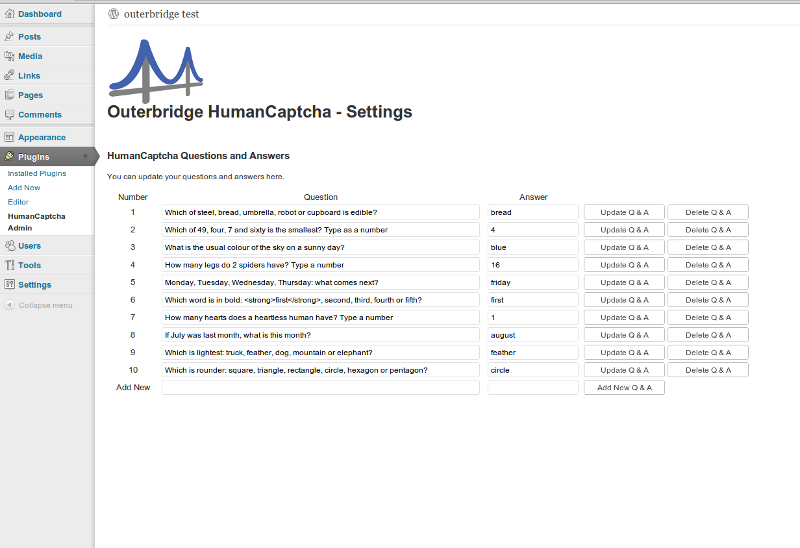
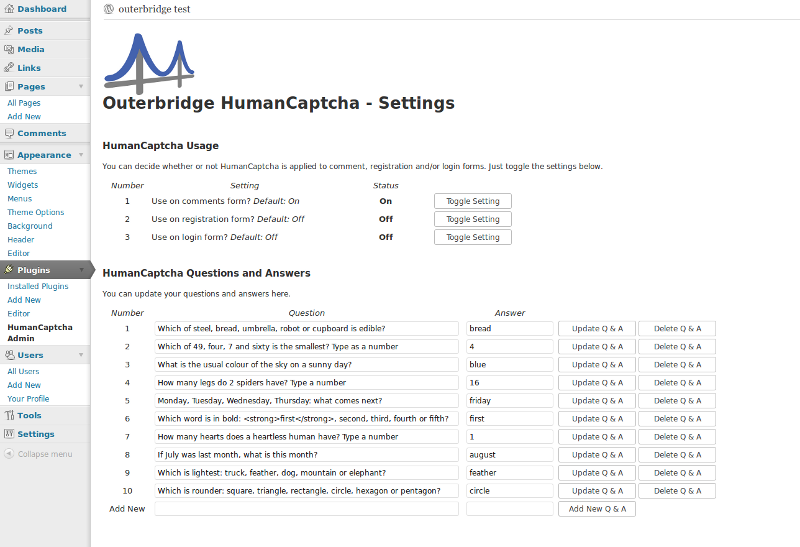
HumanCaptcha now added to registration and login forms as well as comments form.  Toggles added to admin menu to allow users to decide where HumanCaptcha is applied.
git-svn-id: https://plugins.svn.wordpress.org/humancaptcha/trunk@445724 b8457f37-d9ea-0310-8a92-e5e31aec5664

Changed region(s): [[0.0, 0.0, 1.0, 1.0], [0.6875, 0.3729, 0.9375, 0.9634], [0.5625, 0.808, 0.625, 0.9013]]

diff --git a/outerbridge-humancaptcha.php b/outerbridge-humancaptcha.php
@@ -4,7 +4,7 @@ Plugin Name: Outerbridge HumanCaptcha
 Plugin URI: http://outerbridge.co.uk/humancaptcha/ 
 Description: HumanCaptcha is a plugin written by Outerbridge which uses questions that require human logic to answer them and which machines cannot easily answer.
 Author: Mike Jones a.k.a. Outerbridge Mike
-Version: 0.2
+Version: 1.0
 Author URI: http://outerbridge.co.uk/author/mike/
 Tags: captcha, text-based, human, logic, questions, answers
 License: GPL v2
@@ -37,7 +37,7 @@ new obr_humancaptcha;
 class obr_humancaptcha{
 	
 	// version
-	public $obr_humancaptcha_version = '0.2';
+	public $obr_humancaptcha_version = '1.0';
 	
 	// constructor
 	function obr_humancaptcha() {
@@ -46,8 +46,15 @@ class obr_humancaptcha{
 	
 	function __construct(){
 		register_activation_hook(__FILE__, array(&$this, 'obr_install'));
-		add_filter('preprocess_comment', array(&$this, 'obr_validate_answer'));
-		add_filter('comment_form_default_fields', array(&$this, 'obr_build_form'));
+		add_filter('comment_form_default_fields', array(&$this, 'obr_comment_build_form'));
+		add_filter('preprocess_comment', array(&$this, 'obr_comment_validate_answer'), 10, 2);
+		
+		add_action('register_form', array(&$this, 'obr_register_build_form'));
+		add_filter('register_post', array(&$this, 'obr_register_validate_answer'), 10, 2);
+
+		add_action('login_form', array(&$this, 'obr_login_build_form'));
+		add_filter('wp_authenticate', array(&$this, 'obr_login_validate_answer'), 10, 2);
+
 		add_action('wp_head', array(&$this, 'obr_header'));
 		add_action('admin_menu', array(&$this, 'obr_admin_menu'));
 		add_action('init', array(&$this, 'obr_init'));
@@ -67,6 +74,20 @@ class obr_humancaptcha{
 			require_once(ABSPATH . 'wp-admin/includes/upgrade.php');
 			dbDelta($mysql);
 			$new_rows = $this->obr_insert_default_data();
+		}
+
+		$obr_admin_table_name = $this->obr_admin_table_name();
+		if($wpdb->get_var("SHOW TABLES LIKE '$obr_admin_table_name';") != $obr_admin_table_name){
+			$mysql = "CREATE TABLE $obr_admin_table_name (
+				fld_ref int(11) NOT NULL AUTO_INCREMENT,
+				fld_setting int(11) NOT NULL,
+				fld_value boolean NOT NULL DEFAULT 0,
+				UNIQUE KEY fld_setting (fld_setting),
+				UNIQUE KEY fld_ref (fld_ref)
+			);";
+			require_once(ABSPATH . 'wp-admin/includes/upgrade.php');
+			dbDelta($mysql);
+			$new_rows = $this->obr_insert_default_admin_data();
 		}
 
 		// now add in a version number
@@ -102,13 +123,39 @@ class obr_humancaptcha{
 		}
 	}
 
+	function obr_insert_default_admin_data(){
+		global $wpdb;
+		$obr_admin_table_name = $this->obr_admin_table_name();
+		$default_admin_data = array(
+			// 1 is for comments - default true
+			array(1, 1),
+			// 2 is for registration - default false
+			array(2, 0),
+			// 3 is for login - default false
+			array(3, 0)
+		);
+		foreach ($default_admin_data as $row){
+			$new_row = $wpdb->insert($obr_admin_table_name, array('fld_setting' => $row[0], 'fld_value' => $row[1]));
+		}
+	}
+
 	function obr_table_name(){
 		global $wpdb;
 		$obr_table_name = $wpdb->prefix."obr_humancaptcha_qanda";
 		return $obr_table_name;
 	}	
 	
-	function obr_build_form($fields){
+	function obr_admin_table_name(){
+		global $wpdb;
+		$obr_admin_table_name = $wpdb->prefix."obr_humancaptcha_admin";
+		return $obr_admin_table_name;
+	}	
+	
+	function obr_comment_build_form($fields){
+		global $comments_on;
+		if (!$comments_on){
+			return $fields;
+		}
 		global $user_ID;
 		if (!$user_ID){
 			$selected = $this->obr_select_question();
@@ -119,6 +166,35 @@ class obr_humancaptcha{
 			$fields['obr_hlc'] = '<p class="comment-form-email"><label for="obr_hlc">'.__(stripslashes($question)).'</label> <span class="required">*</span><input id="answer" name="answer" size="30" type="text" aria-required=\'true\' /></p>';
 			return $fields;
 		}
+	}
+	
+	function obr_register_build_form($fields){
+		global $register_on;
+		if (!$register_on){
+			return $fields;
+		}
+		$fields = $this->obr_build_form($fields);
+		return $fields;
+	}
+
+	function obr_login_build_form($fields){
+		global $login_on;
+		if (!$login_on){
+			return $fields;
+		}
+		$fields = $this->obr_build_form($fields);
+		return $fields;
+		
+	}
+
+	function obr_build_form($fields){
+		$selected = $this->obr_select_question();
+		$question = $selected['question'];
+		$answer = $selected['answer'];
+		$_SESSION['obr_answer'] = md5(strtolower(trim(htmlentities($answer))));
+		$fields['obr_hlc'] = '<p><label for="obr_hlc">'.__(stripslashes($question)).'<br /><input type="text" name="answer" id="answer" class="input" value="" size="25" tabindex="20" /></label></p>';
+		echo $fields['obr_hlc'];
+		return $fields;
 	}
 	
 	function obr_header(){
@@ -134,21 +210,41 @@ class obr_humancaptcha{
 		return $selected;
 	}
 
-	function obr_validate_answer($commentdata){
+	function obr_comment_validate_answer($commentdata){
+		global $comments_on;
 		global $user_ID;
-		if (!$user_ID){
-			session_start();
-			if ((!isset($_POST['answer'])) || ($_POST['answer'] == '')){
-				wp_die(__('Error: please fill the required field (humancaptcha).'));
-			}
-			$user_answer = md5(strtolower(trim(stripslashes(htmlentities($_POST['answer'])))));
-			$obr_answer = strtolower(trim(stripslashes(htmlentities($_SESSION['obr_answer']))));
-			if ($user_answer != $obr_answer){
-				wp_die(__('Error: your answer to the humancaptcha question is incorrect.  Use your browser\'s back button to try again.'));
-			}
+		if (!$user_ID && $comments_on){
+			$this->obr_validate_answer();
 		}
 		return $commentdata;
 	}
+
+	function obr_register_validate_answer($user_login, $user_email){
+		global $register_on;
+		if (($user_login != '') && ($user_email != '') && $register_on){
+			$this->obr_validate_answer();
+		}
+	}
+	
+	function obr_login_validate_answer($user_login, $user_password){
+		global $login_on;
+		if (($user_login != '') && ($user_password != '') && $login_on){
+			$this->obr_validate_answer();
+		}
+	}
+	
+	function obr_validate_answer(){
+		session_start();
+		if ((!isset($_POST['answer'])) || ($_POST['answer'] == '')){
+			wp_die(__('Error: please fill the required field (humancaptcha).'));
+		}
+		$user_answer = md5(strtolower(trim(stripslashes(htmlentities($_POST['answer'])))));
+		$obr_answer = strtolower(trim(stripslashes(htmlentities($_SESSION['obr_answer']))));
+		if ($user_answer != $obr_answer){
+			wp_die(__('Error: your answer to the humancaptcha question is incorrect.  Use your browser\'s back button to try again.'));
+		}
+		return true;
+	}	
 
 	function obr_admin_menu(){
 		if (is_super_admin()) {
@@ -167,7 +263,7 @@ class obr_humancaptcha{
 		$page = 'plugins.php?page=obr-hlc';
 		$num_rows = $wpdb->get_row($mysql);
 		if ($wpdb->num_rows > 0){
-			echo '<table style="text-align: center;"><tr><td width="50">Number</td><td width="500">Question</td><td width="150">Answer</td><td>&nbsp;</td><td>&nbsp;</td></tr>';
+			echo '<table style="text-align: center;"><tr><td width="50"><em>Number</em></td><td width="500"><em>Question</em></td><td width="150"><em>Answer</em></td><td>&nbsp;</td><td>&nbsp;</td></tr>';
 			$counter = 1;
 			foreach($wpdb->get_results($mysql) as $key => $row){
 				echo '<form method="post" action="',$page,'">';
@@ -196,7 +292,7 @@ class obr_humancaptcha{
 			echo '</form>';
 			echo '</table>';
 		} else {
-			echo 'Nothing to display.';
+			echo 'Could not retrieve your settings.';
 		}
 	}
 	
@@ -218,10 +314,74 @@ class obr_humancaptcha{
 		$obr_add_qanda = $wpdb->insert($obr_table_name, array('fld_questions' => $question, 'fld_answers' => $answer));
 	}
 	
+	function obr_admin_settings($message2 = null){
+		global $wpdb;
+		$obr_admin_table_name = $this->obr_admin_table_name();
+		$mysql = "SELECT * FROM $obr_admin_table_name ORDER BY fld_setting ASC;";
+		$page = 'plugins.php?page=obr-hlc';
+		$num_rows = $wpdb->get_row($mysql);
+		if ($wpdb->num_rows == 3){
+			echo '<table style="text-align: center;"><tr><td width="50"><em>Number</em></td><td width="300"><em>Setting</em></td><td width="150"><em>Status</em></td><td>&nbsp;</td></tr>';
+			$counter = 1;
+			foreach($wpdb->get_results($mysql) as $key => $row){
+				echo '<form method="post" action="',$page,'">';
+				echo '<tr><td style="width: 75px;">',$counter,'</td><td style="text-align: left;">';
+				if (stripslashes($row->fld_setting) == 1){
+					echo 'Use on comments form? <em>Default: On</em>';
+				} elseif (stripslashes($row->fld_setting) == 2){
+					echo 'Use on registration form? <em>Default: Off</em>';
+				} elseif (stripslashes($row->fld_setting) == 3){
+					echo 'Use on login form? <em>Default: Off</em>';
+				} else {
+					// there shouldn't be any other cases!
+				}
+				echo '</td><td>';
+				if (stripslashes($row->fld_value)){
+					echo '<strong>On</strong><input type="hidden" name="value" value=1 />';
+				} else {
+					echo '<strong>Off</strong><input type="hidden" name="value" value=0 />';
+				}
+				echo '</td>';
+				echo '<td><input type="hidden" name="setting" value=',$row->fld_setting,' /><input type="submit" name="togglesetting" value="Toggle Setting" style="width: 125px;" /></td>';
+				echo '</form>';
+				$counter++;
+			}
+			if (isset($message2)){
+				echo '<tr><td colspan="4"><strong>',$message2,'</strong></td></tr>';
+			}
+			echo '</table>';
+		} else {
+			echo 'Nothing to display.';
+		}
+	}
+	
+	function obr_update_admin_settings($setting, $value){
+		global $wpdb;
+		$obr_admin_table_name = $this->obr_admin_table_name();
+		$wpdb->update($obr_admin_table_name, array('fld_value' => $value), array('fld_setting' => $setting));
+	}
+
+	function obr_get_setting_value($setting){
+		global $wpdb;
+		$obr_admin_table_name = $this->obr_admin_table_name();
+		$mysql = $wpdb->get_row("SELECT * FROM $obr_admin_table_name WHERE fld_setting = $setting LIMIT 1;");
+		$value = $mysql->fld_value;
+		if ($value){
+			return $value;
+		} else {
+			return 0;
+		}
+	}
+
 	function obr_init(){
 		if (!session_id()){
 			session_start();
 		}
+		global $comments_on, $register_on, $login_on; 
+		// see obr_insert_default_admin_data for which setting is which...
+		$comments_on = $this->obr_get_setting_value(1);
+		$register_on = $this->obr_get_setting_value(2);
+		$login_on = $this->obr_get_setting_value(3);
 	}
 }
 ?>

diff --git a/outerbridge-humancaptcha-admin.php b/outerbridge-humancaptcha-admin.php
@@ -31,8 +31,26 @@ if (isset($_POST['addqanda'])){
 		$message = 'Cannot add the new question and answer.';
 	}
 }
+if (isset($_POST['togglesetting'])){
+	$setting = mysql_real_escape_string(trim(stripslashes(htmlentities($_POST['setting']))));
+	$value = mysql_real_escape_string(trim(stripslashes(htmlentities($_POST['value']))));
+	if ($setting && (($value == 0) || ($value == 1))){
+		$message2 = 'Setting updated.';
+		//toggle $value
+		$value = 1 - $value;
+		$this->obr_update_admin_settings($setting, $value);
+	} else {
+		$message2 = 'Setting could not be updated.';
+	}
+}
 ?>
 <h1><img src="<?php echo plugins_url('humancaptcha/outerbridge-logo.png'); ?>" width="150" height="107" /><br />Outerbridge HumanCaptcha - Settings</h1>
+<br />
+<h3>HumanCaptcha Usage</h3>
+<p>You can decide whether or not HumanCaptcha is applied to comment, registration and/or login forms.  Just toggle the settings below.</p>
+<?php
+echo $this->obr_admin_settings();
+?>
 <br />
 <h3>HumanCaptcha Questions and Answers</h3>
 <p>You can update your questions and answers here.</p>
